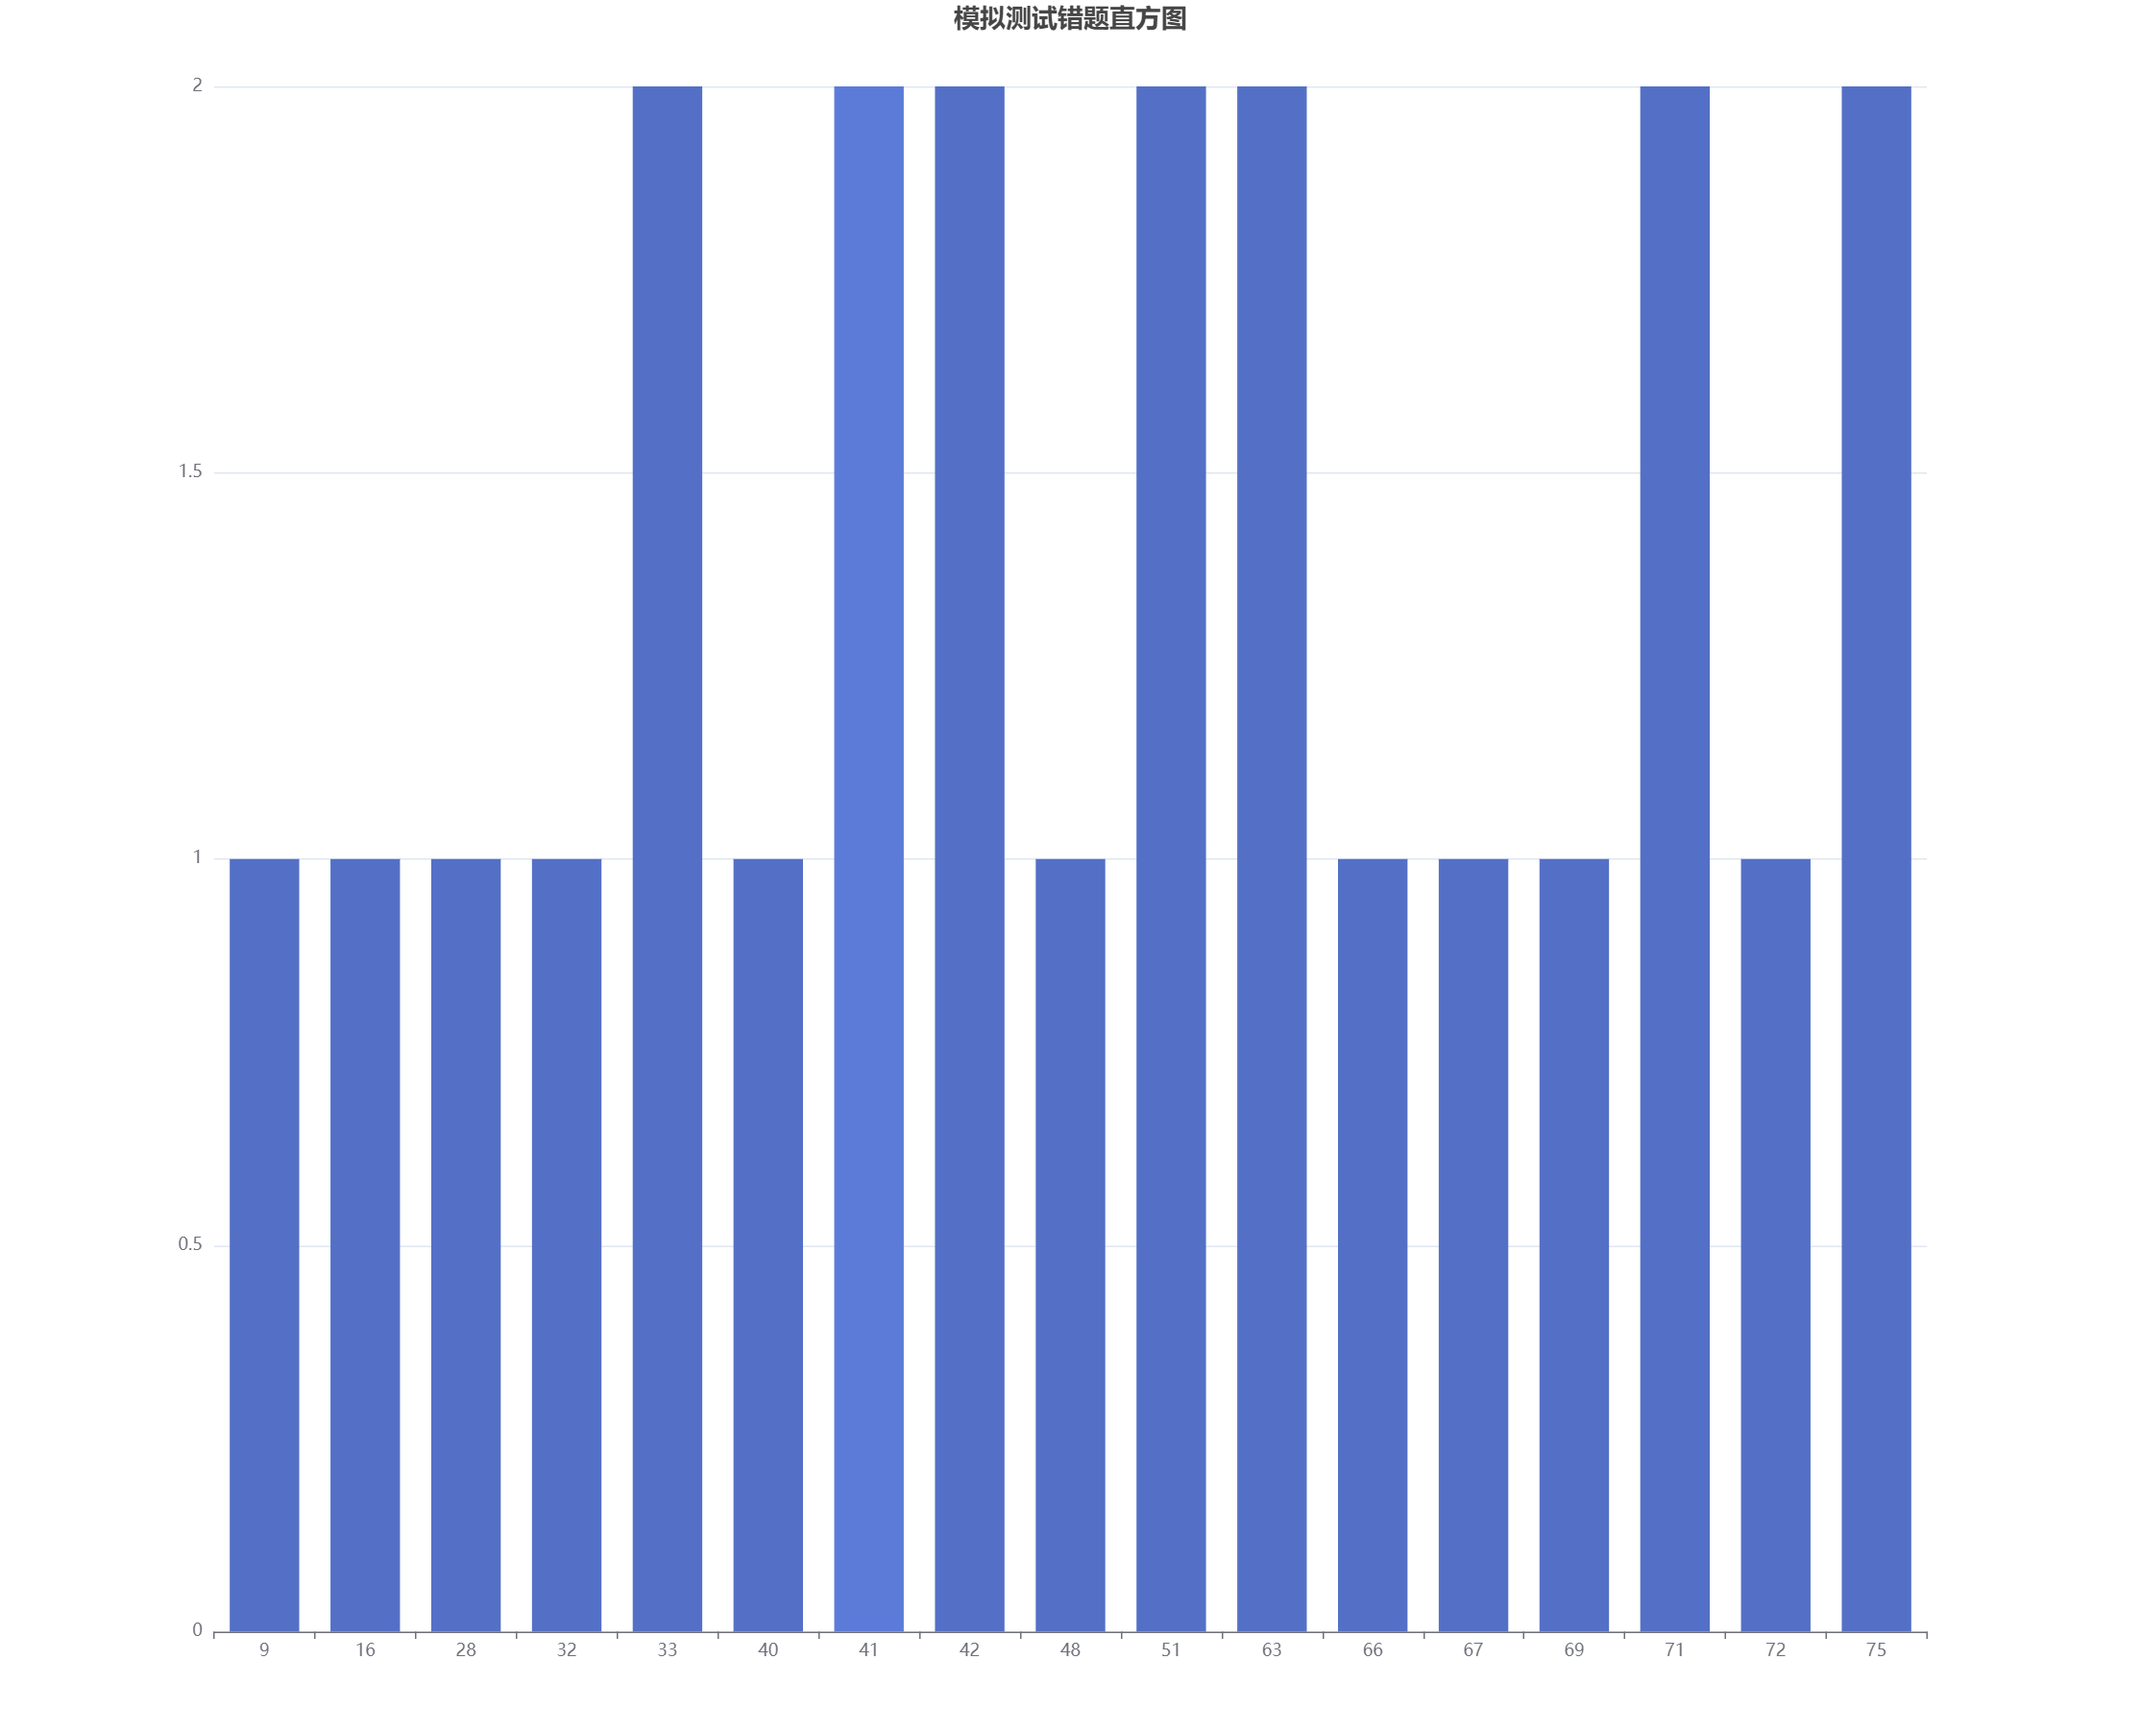
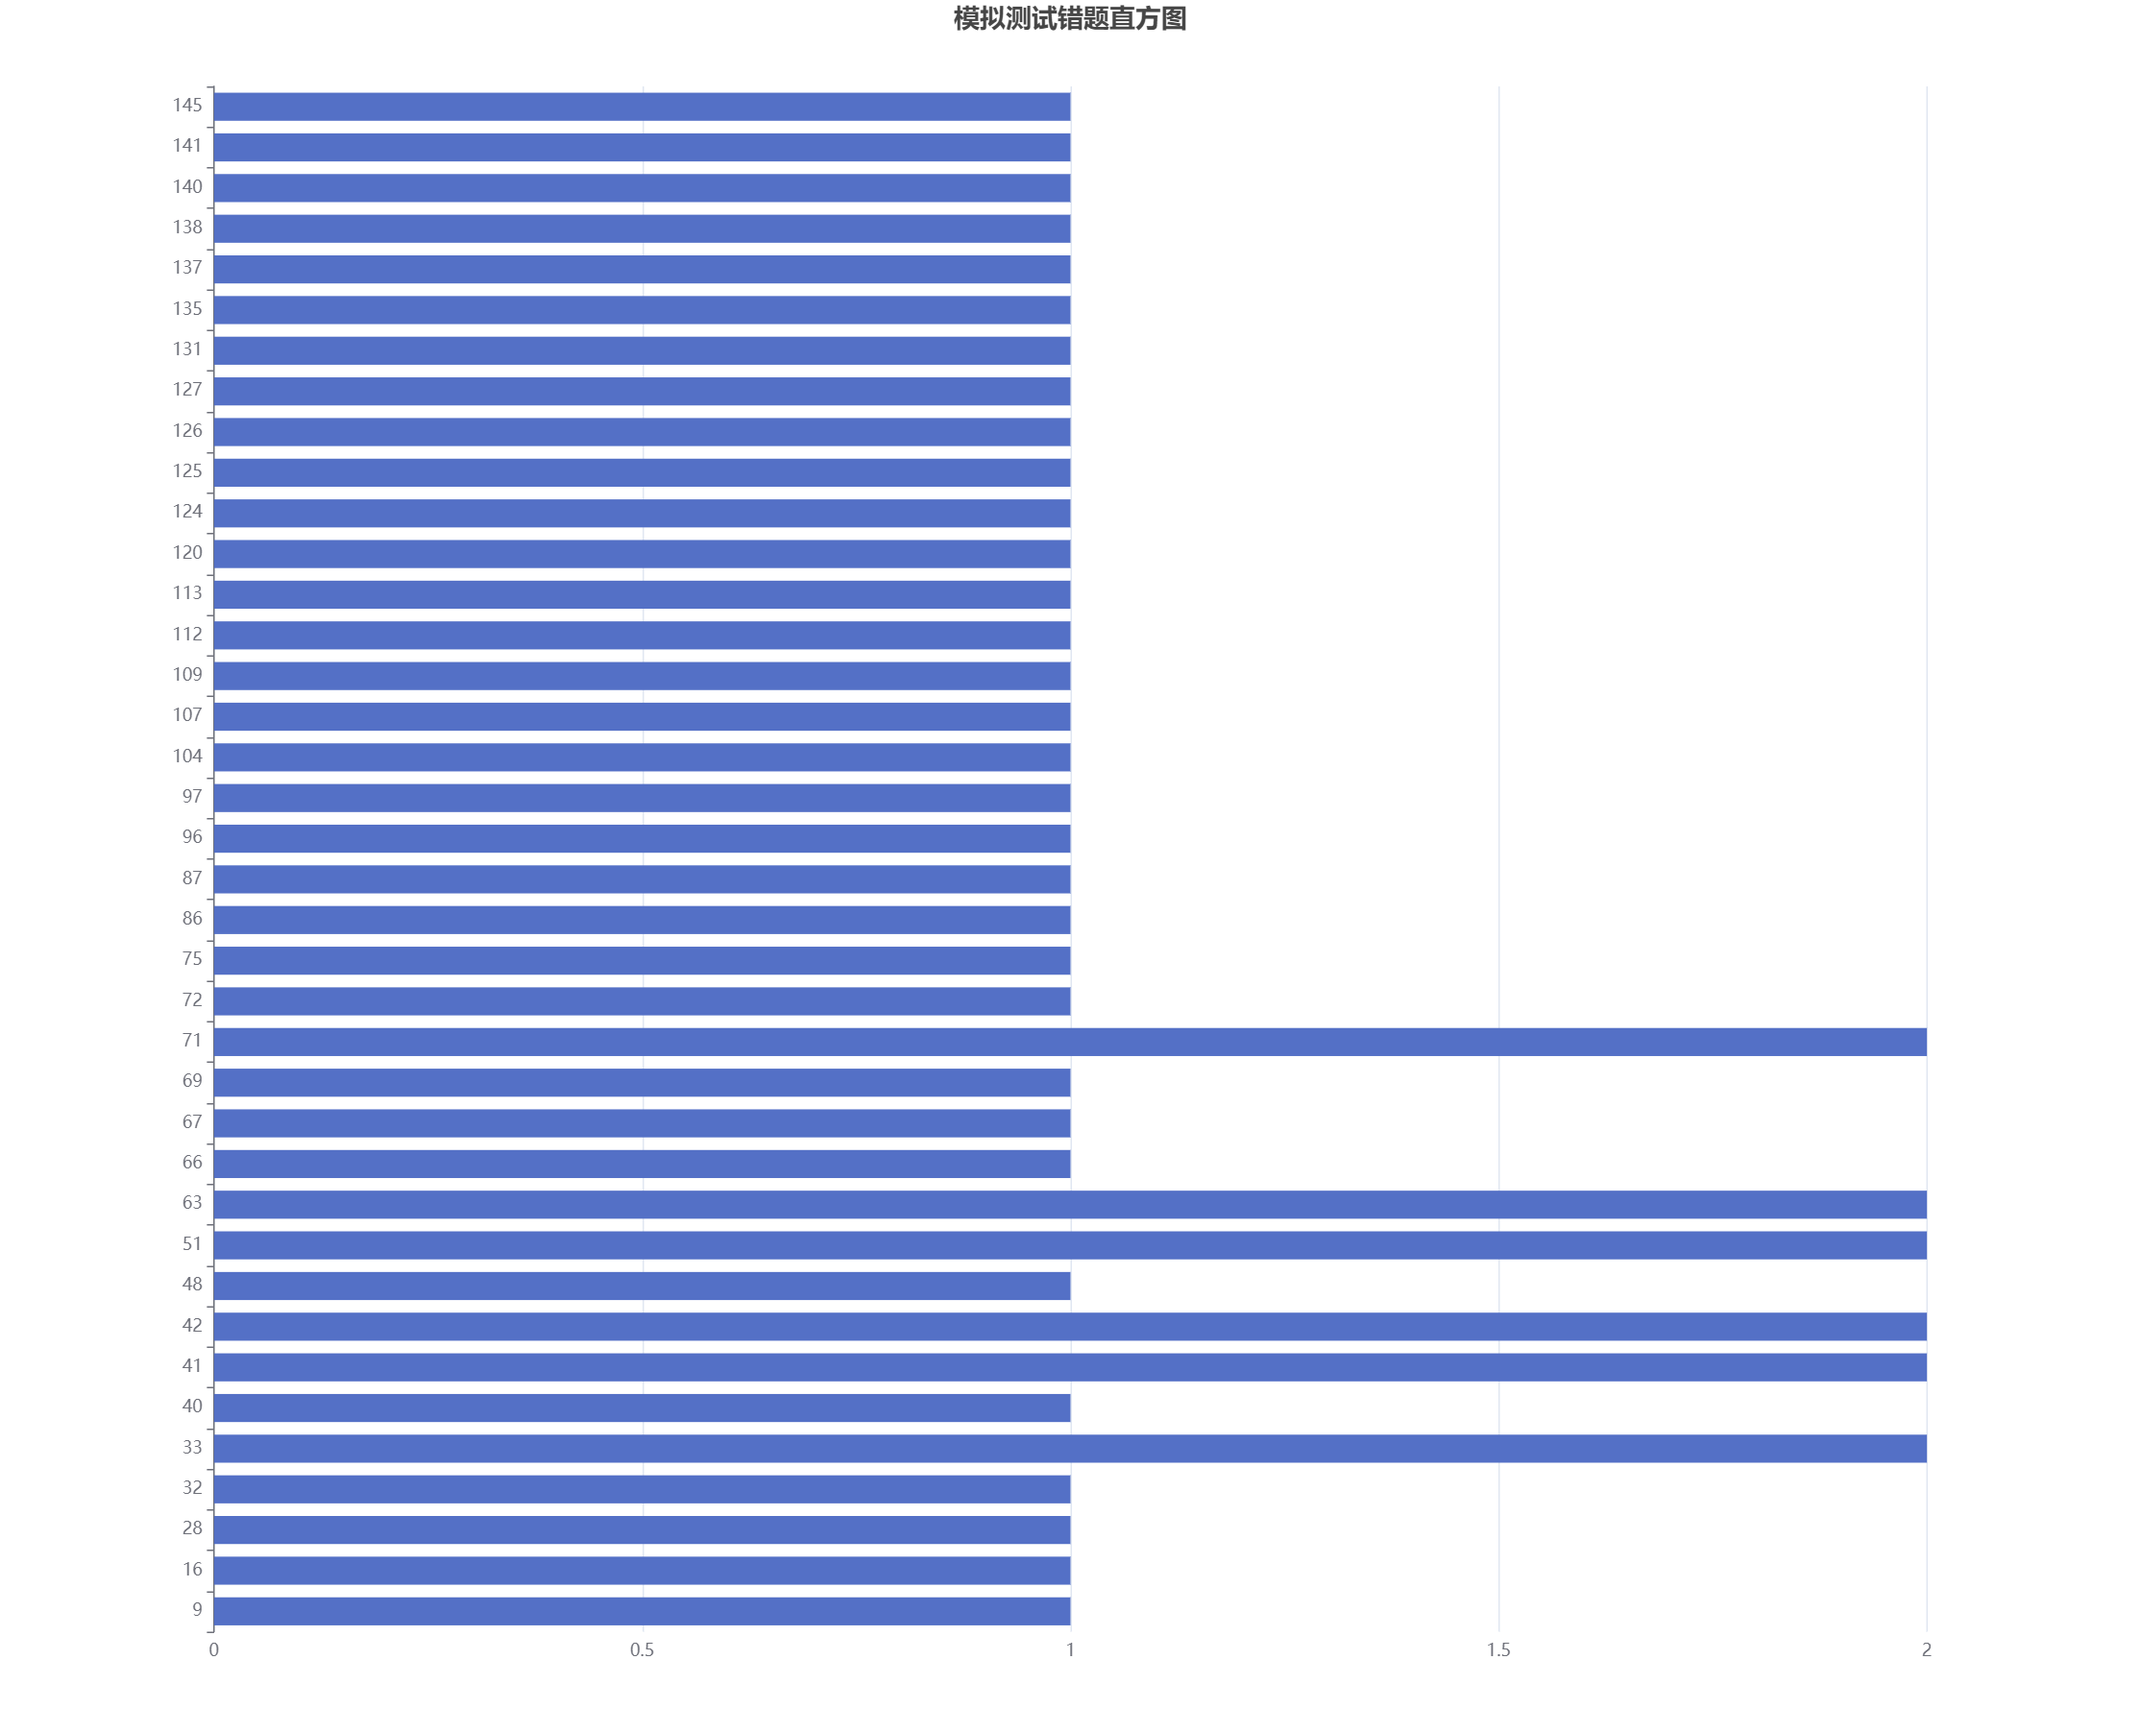
[update] 8/5 test

diff --git a/第一套/README.md b/第一套/README.md
@@ -1372,7 +1372,7 @@ connection.
     </details>
 
 92. A company is running a commercial Apache Hadoop cluster on Amazon EC2. This cluster is being used daily to query large files on Amazon S3. The data on Amazon S3 has been curated and does not require any additional transformations steps. The company is using a commerciALBusiness intelligence (BI) tool on Amazon EC2 to run queries against the Hadoop cluster and visualize the data. The company wants to reduce or eliminate the overhead costs associated with managing the Hadoop cluster and the BI tool. The company would like to remove to a more cost-effective solution with minimal effort. The visualization is simple and requires performing some basic aggregation steps only. Which option will meet the company's requirements?
-    - [ ] A. Launch a transient Amazon ENIR cluster daily and develop an Apache Hive script to analyze the files on Amazon S3. Shut down the Amazon ENIR cluster when the job is complete. The use the Amazon QuickSight to connect to Amazon EMR and perform the visualization.
+    - [ ] A. Launch a transient Amazon EMR cluster daily and develop an Apache Hive script to analyze the files on Amazon S3. Shut down the Amazon ENIR cluster when the job is complete. The use the Amazon QuickSight to connect to Amazon EMR and perform the visualization.
     - [ ] B. Develop a stored procedure invoked from a MySQL database running on Amazon EC2 to analyze EC2 to analyze the files in Amazon S3. Then use a fast in-memory BL tool running on Amazon EC2 to visualize the data.
     - [ ] C. Develop a script that uses Amazon Athena to query and analyze the files on Amazon S3. Then use Amazon QuickSight to connect to Athena and perform the visualization.
     - [ ] D. Use a commercial extract, transform, load (ETL) tool that runs on Amazon EC2 to prepare the data for processing. Then switch to a faster and cheaper Bl tool that runs on Amazon EC2 to visualize the data from Amazon S3.
@@ -1401,7 +1401,7 @@ connection.
     </details>
 
 94. A development team has created a series ofAWS CloudFormation templates to help deploy services. They created a template for a network viltual private (VPC) stack, a database stack, a bastion host stack, and a web application-specific stack. Each service requires the deployment of at least:A network'VPC stackA bastion host stackA web application stack Each template has multiple input parameters that make it difficult to deploy the services individually from the AWS CloudFormation console. The input parameters from one stack are typically outputs from other stacks. For example, the VPC ID, subnet IDs, and security groups from the network stack may need to be used in the application stack or database stack Which actions will help reduce the operation burden and the number of parameters passed into a service deployment? (Choose two.)
-    - [ ] A. Create a new AWS CloudFormation template for each service. After the existing templates to use cross-stack references to eliminate passing many parameters to each template. Call each required stack for the application as a neSted stack from the new stack. Call the newly created service stack from the AWS CloudFormation console to deploy the specific service with a subset of the parameters previously required.
+    - [ ] A. Create a new AWS CloudFormation template for each service. After the existing templates to use cross-stack references to eliminate passing many parameters to each template. Call each required stack for the application as a nested stack from the new stack. Call the newly created service stack from the AWS CloudFormation console to deploy the specific service with a subset of the parameters previously required.
     - [ ] B. Create a new portfolio in AWS Service Catalog for each service. Create a product for each existing AWS CloudFormation template required to build the service. Add the products to the portfolio that represents that service in AWS Service Catalog. To deploy the service, select the specific service portfolio and launch the portfolio with the necessary parameters to deploy all templates.
     - [ ] C. Set up an AWS CodePipeline workflow for each service. For each existing template, choose AWS CloudFormation as a deployment action. Add the AWS CloudFormation template to the deployment action. Ensure that the deployment actions are processed to make sure that dependences are obeyed. Use configuration files and scripts to share parameters between the stacks. To launch the service, execute the specific template by choosing the name of the service and releasing a change.
     - [ ] D. Use AWS Step Functions to define a new service. Create a new AWS CloudFormation template for each service. After the existing templates to use cross-stack references to eliminate passing many parameters to each template. Call each required stack for the application as a nested stack from the new service template. Configure AWS Step Functions to call the service template directly. In the AWS Step Functions console, execute the step.
@@ -1418,7 +1418,7 @@ connection.
     - [ ] A. Use CloudFormer to create AWS CloudFormation stacks from the current resources. Deploy that stack by using AWS CloudFormation in the same region. Use Amazon CloudWatch alarms to send notifications about underutilized resources to provide cost-savings suggestions.
     - [ ] B. Create an Auto Scaling group to scale the instances, and use AWS CodeDeploy to perform the configuration. Change from a load balancer to an Application Load Balancer. Purchase a third-party product that provides suggestions for cost savings on AWS resources.
     - [ ] C. Deploy the application by using AWS Elastic Beanstalk with default options. Register for an AWS Support Developer plan. Review the instance usage for the application by using Amazon CloudWatch and identify less expensive instances that can handle the load. Hold monthly meetings to review new instance types and determine whether Reserved instances should be purchased.
-    - [ ] D. Deploy the application as a Docker image by using Amazon ECS. Set up Amazon EC2 Auto Scaling and Amazon ECS scaling. Register for AWS Business Supp AWS Business Support ort and use Trusted Advisor checks to provide suggestions on cost savings
+    - [ ] D. Deploy the application as a Docker image by using Amazon ECS. Set up Amazon EC2 Auto Scaling and Amazon ECS scaling. Register for AWS Business Supp AWS Business Support and use Trusted Advisor checks to provide suggestions on cost savings
 
     <details>
        <summary>Answer</summary>

diff --git a/第二套/README.md b/第二套/README.md
@@ -76,7 +76,7 @@
 
    </details>
 
-6. A Solutions Architect has created an AWS CloudFormation template for a three-tier application that contains an Auto Scaling group of Amazon EC2 instances running a custom AMI. The Solutions Architect wants to ensure that future updates to the custom AMI can be deployed to a running stack by first updating the template to refer to the new AMI, and then invoking UpdateStack to replace the EC2 instances with instances launched from the new ANIL How can updates to the AMI be deployed to meet these requirements?
+6. A Solutions Architect has created an AWS CloudFormation template for a three-tier application that contains an Auto Scaling group of Amazon EC2 instances running a custom AMI. The Solutions Architect wants to ensure that future updates to the custom AMI can be deployed to a running stack by first updating the template to refer to the new AMI, and then invoking UpdateStack to replace the EC2 instances with instances launched from the new AMI. How can updates to the AMI be deployed to meet these requirements?
    - [ ] A. Create a change set for a new version of the template, view the changes to the running EC2 instances to ensure that the AMI is correctly updated, and then execute the change set.
    - [ ] B. Edit the AWS::AutoScaling::LaunchConfiguration resource in the template, changing its to Replace. DeletionPolicy
    - [ ] C. Edit the AWS::AutoScaling::LaunchConfiguration resource in the template, inserting an attribute. UpdatePolicy
@@ -122,7 +122,7 @@
    - [ ] B. Use weighted routing and configure each record set with a weight of 50. Configure an HTTP health check for each region and attach it to the record set for that region.
    - [ ] C. Use latency-based routing for both record sets. Configure a health check for each region and attach it to the record set for that region.
    - [ ] D. Configure an Amazon CloudWatch alarm for the health checks in us-east-1, and have it invoke an AWS Lambda function that promotes the read replica in eu-west-1.
-   - [ ] E. Configure an Amazon RDS event notifications to react to the failure of the database in us-east-I by invoking an AWS Lambda function that promotes the read replica in eu-west-1.
+   - [ ] E. Configure an Amazon RDS event notifications to react to the failure of the database in us-east-1 by invoking an AWS Lambda function that promotes the read replica in eu-west-1.
 
    <details>
       <summary>Answer</summary>

diff --git a/README.md b/README.md
@@ -10,6 +10,11 @@
 - 32, 33, 40, 41, 42, 48, 51, 63, 66, 67, 71, 75
 - 正确率84%
 
+## 2021年8月5日测试错题
+
+- 86, 87, 96, 97, 104, 107, 109, 112, 113, 120, 124, 125, 126, 127, 131, 135, 137, 138, 140, 141, 145
+- 正确率72%
+
 ## 图表
 
 ![01](./img/wrongBar.png)
